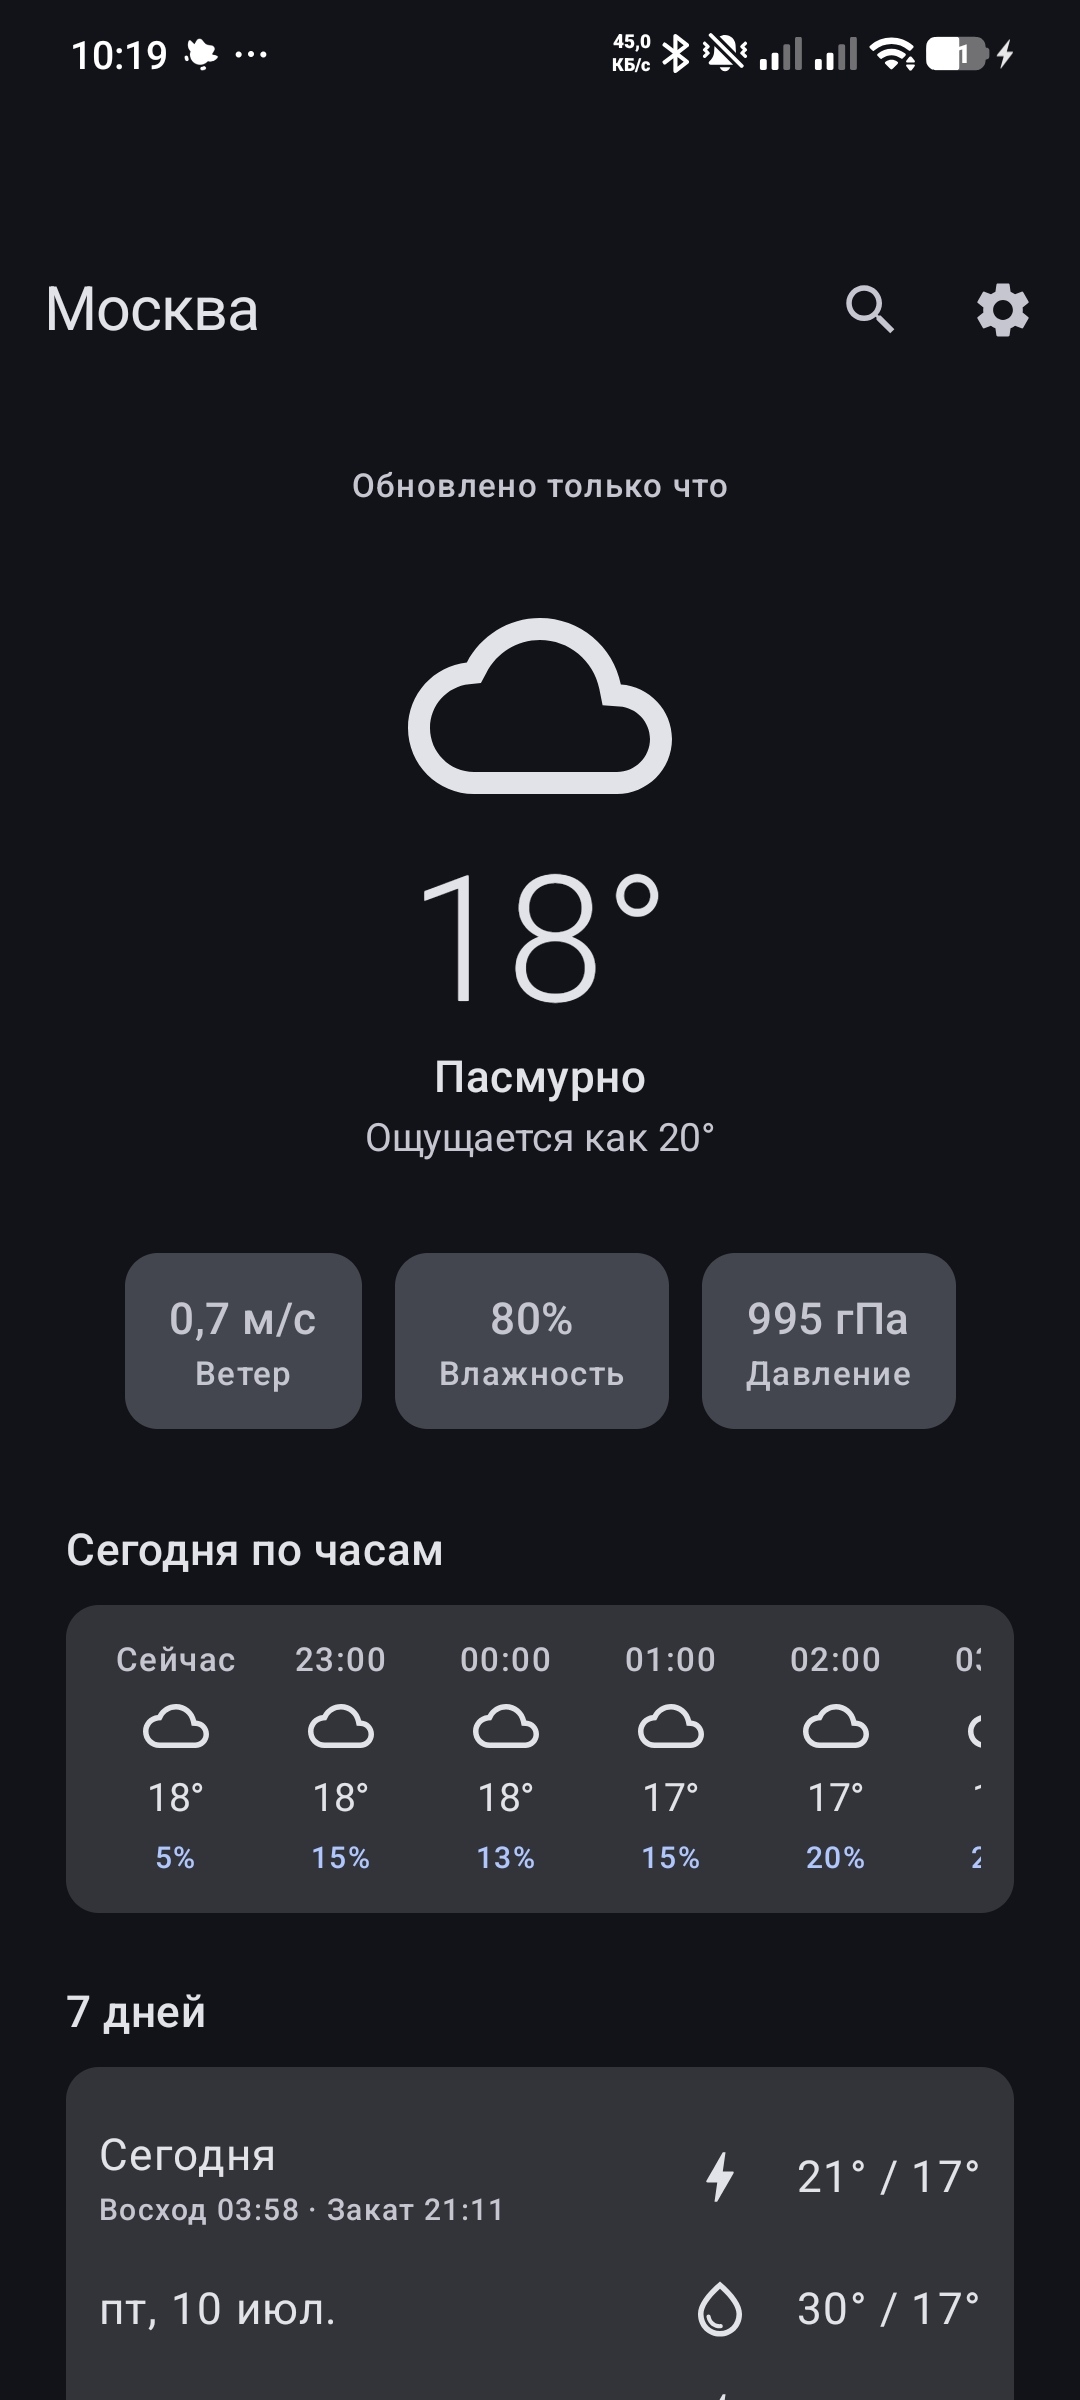
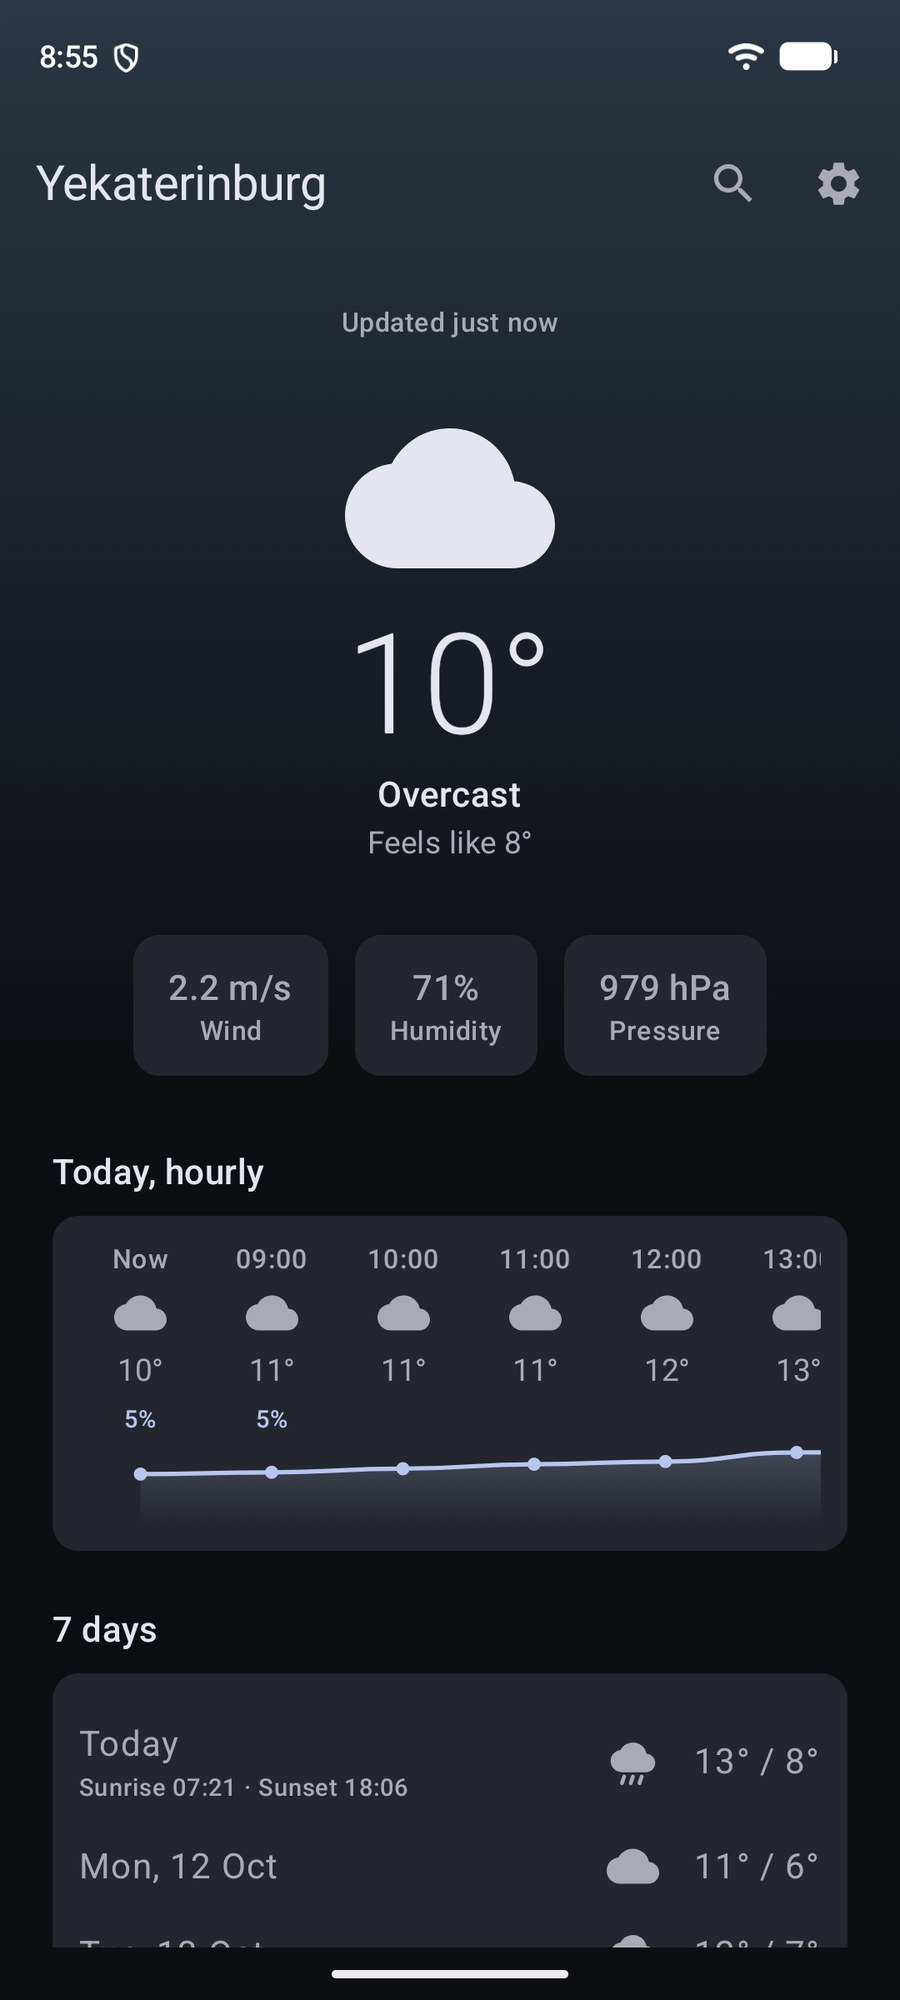
chore: bump version to 1.1.0; README — sky backdrop and temperature curve, fresh dark screenshot

diff --git a/README.md b/README.md
@@ -17,6 +17,8 @@
 ## Features
 
 - 🌤 Current conditions, 24-hour forecast and 7-day forecast with sunrise/sunset
+- 🎨 **Weather-aware sky**: the home screen background tints itself by condition and day/night (clear, clouds, rain, snow, storm), animated on change, separate palettes for light and dark theme
+- 📈 **Hourly temperature curve** drawn on a Compose `Canvas` (cubic Béziers + gradient fill), scrolling together with the hour columns
 - 📡 **Offline-first**: the UI reads only from the local Room cache; the network merely refreshes it — the app works in airplane mode with an honest "updated N min ago" label
 - 🔎 City search with debounced geocoding, saved cities, one-tap switching
 - 📍 Location detection (coarse, with a graceful fallback to manual search)
@@ -38,7 +40,7 @@
 | Storage | Room (SSOT cache) · Preferences DataStore (settings) |
 | Widget | Glance + WorkManager (@HiltWorker) |
 | API contract | Hand-written OpenAPI 3 spec ([openapi/weather-api.yaml](openapi/weather-api.yaml)) |
-| Quality | detekt + ktlint (maxIssues 0) · ~60 unit tests (JUnit, Turbine, MockWebServer, Robolectric) · GitHub Actions CI |
+| Quality | detekt + ktlint (maxIssues 0) · ~65 unit tests (JUnit, Turbine, MockWebServer, Robolectric) · GitHub Actions CI |
 | Optional backend (Stage 9) | Ktor + Swagger UI, rate limiting, server-side cache — plain JVM module, independent from the Android build |
 
 ## Architecture
